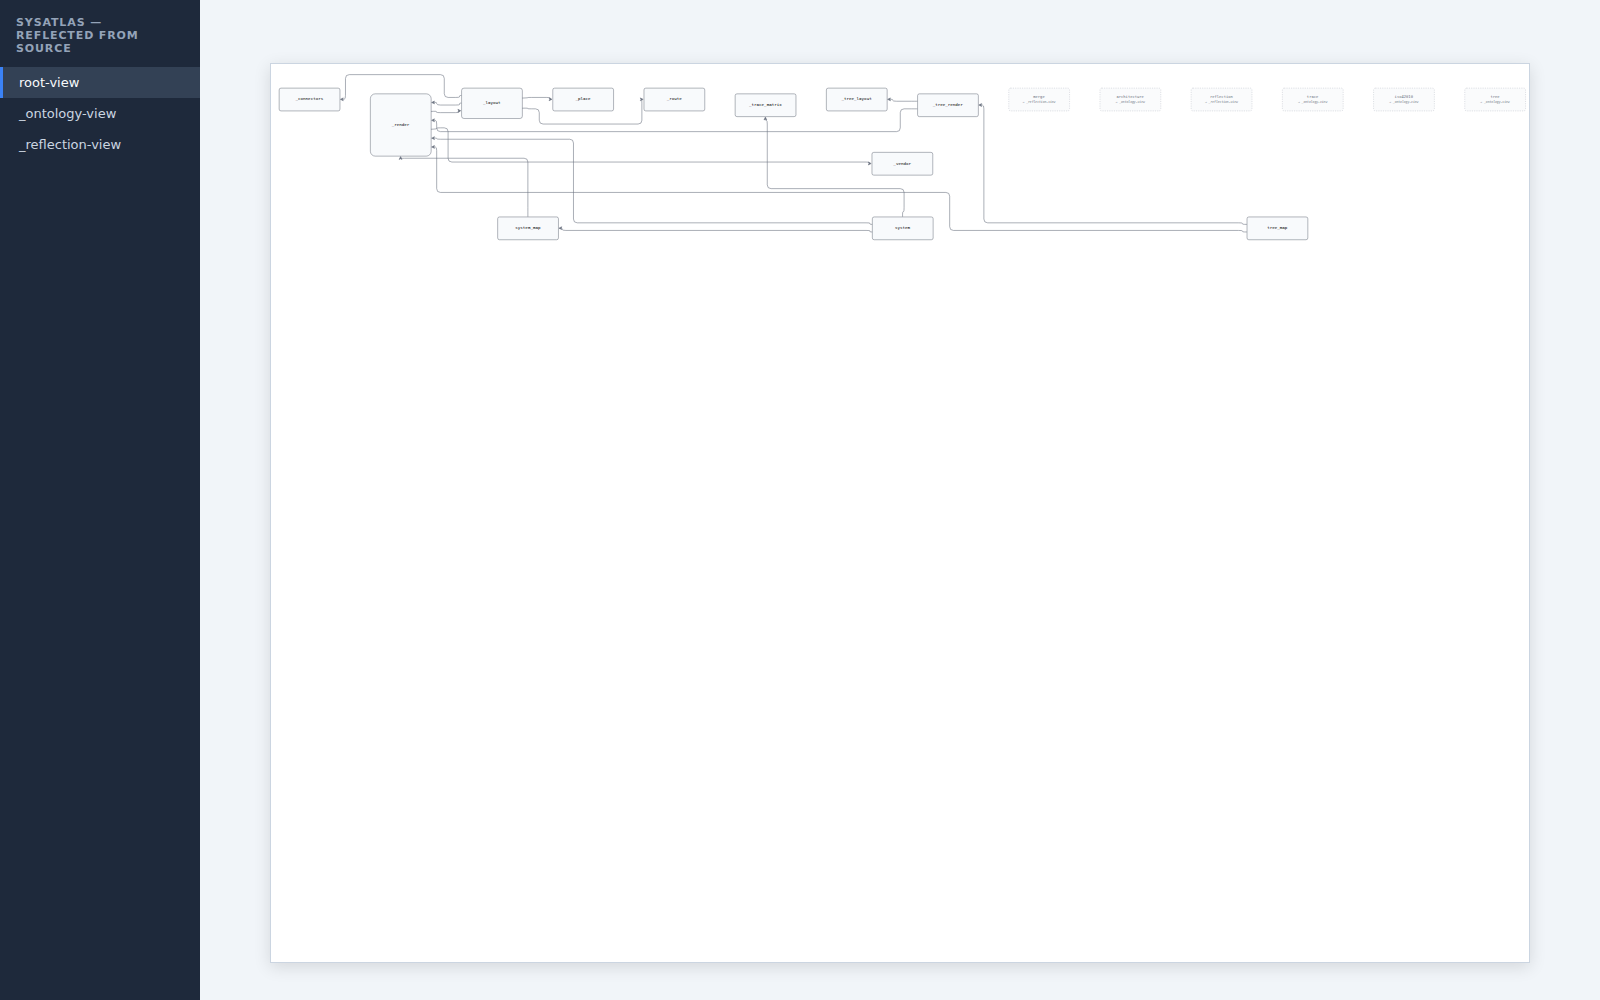
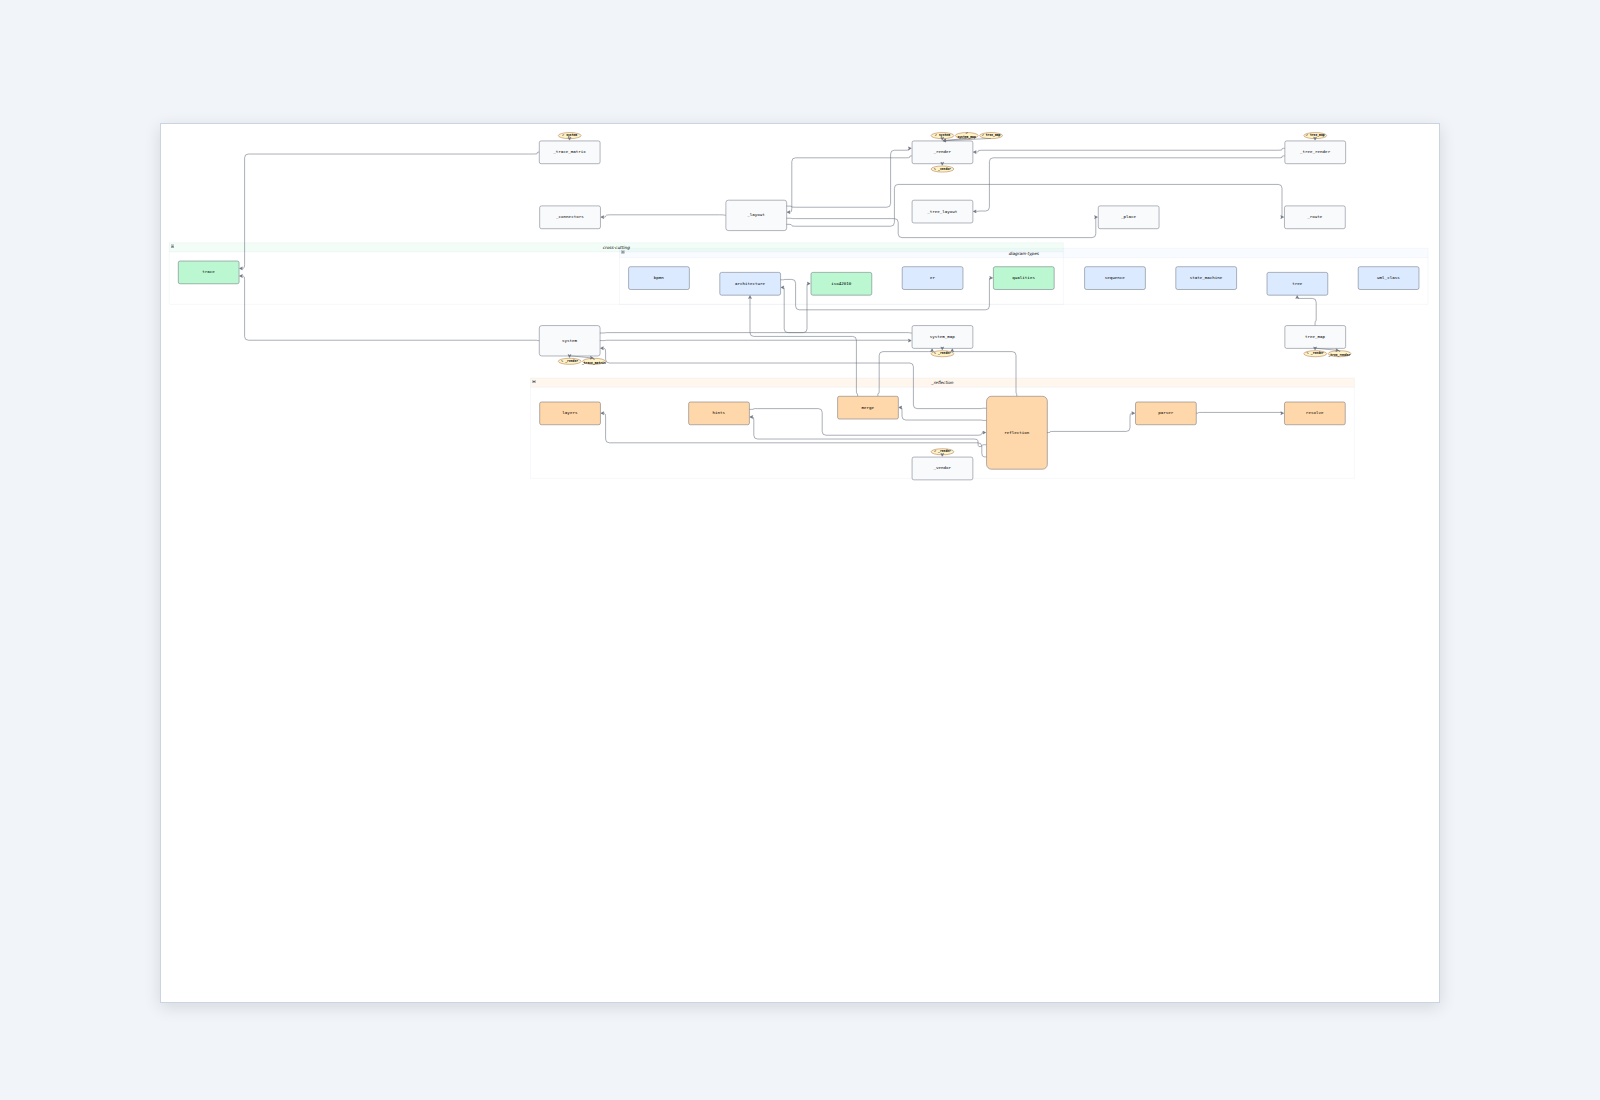
docs(reflection): add conceptual read/write-loop view + reorganise layers
The reflection demo used to be only the literal module-import graph,
which answers "what imports what" but not "what is sysatlas". Add a
hand-authored conceptual view (`loops.py`) showing the three parties
that meet around the ontology — User, LLM, Source code — with the
forward (builders) and backward (reflection) write paths drawn
symmetrically so the read/write loop is visible at a glance. The
Palantir Foundry ontology docs are the reference shape.

Also reorganise reflection layer hints so the literal view stops
collapsing into one row per sub-package. `_ontology/*` is now its own
layer (it is the integrating grammar every other module depends on),
not "data". Render / layout / builders / reflection get matching layer
names. Forced layer order top-to-bottom for the layered renderer.

diff --git a/docs/reflection/loops.html b/docs/reflection/loops.html
@@ -1,0 +1,71 @@
+<!DOCTYPE html>
+<html>
+<head>
+<meta charset="utf-8">
+<title>sysatlas — read/write loops around the ontology</title>
+<style>
+* { box-sizing: border-box; margin: 0; padding: 0; }
+html, body { height: 100%; background: #f1f5f9; font-family: sans-serif; }
+
+  body { display: flex; align-items: center; justify-content: center; }
+  #diagram {
+    border: 1px solid #cbd5e1;
+    box-shadow: 0 4px 16px rgba(0,0,0,0.12);
+    background: #ffffff;
+    overflow: hidden;
+    position: relative;
+  }
+
+</style>
+</head>
+<body>
+<div id="diagram"></div>
+<script src="https://viewer.diagrams.net/js/viewer-static.min.js"></script>
+<script>
+var xmlStr = "<mxGraphModel dx=\"1422\" dy=\"762\" grid=\"1\" gridSize=\"10\" guides=\"1\" tooltips=\"1\" connect=\"1\" arrows=\"1\" fold=\"1\" page=\"1\" pageScale=\"1\" pageWidth=\"1169\" pageHeight=\"827\" math=\"0\" shadow=\"0\"><root><mxCell id=\"0\" /><mxCell id=\"1\" parent=\"0\" /><mxCell id=\"trace-layer\" parent=\"0\" value=\"Traces\" visible=\"0\" /><mxCell id=\"2\" value=\"User\" style=\"rounded=1;whiteSpace=wrap;html=1;arcSize=8;fillColor=#f8fafc;strokeColor=#374151;fontFamily=monospace;fontSize=11;\" vertex=\"1\" parent=\"1\"><mxGeometry x=\"550\" y=\"95\" width=\"160\" height=\"60\" as=\"geometry\" /></mxCell><mxCell id=\"3\" value=\"LLM\" style=\"rounded=1;whiteSpace=wrap;html=1;arcSize=8;fillColor=#f8fafc;strokeColor=#374151;fontFamily=monospace;fontSize=11;\" vertex=\"1\" parent=\"1\"><mxGeometry x=\"790\" y=\"95\" width=\"160\" height=\"60\" as=\"geometry\" /></mxCell><mxCell id=\"4\" value=\"Source code\" style=\"rounded=1;whiteSpace=wrap;html=1;arcSize=8;fillColor=#f8fafc;strokeColor=#374151;fontFamily=monospace;fontSize=11;\" vertex=\"1\" parent=\"1\"><mxGeometry x=\"1030\" y=\"95\" width=\"160\" height=\"60\" as=\"geometry\" /></mxCell><mxCell id=\"5\" value=\"Builders\" style=\"rounded=1;whiteSpace=wrap;html=1;arcSize=8;fillColor=#f8fafc;strokeColor=#374151;fontFamily=monospace;fontSize=11;\" vertex=\"1\" parent=\"1\"><mxGeometry x=\"662\" y=\"225\" width=\"160\" height=\"60\" as=\"geometry\" /></mxCell><mxCell id=\"6\" value=\"Reflection\" style=\"rounded=1;whiteSpace=wrap;html=1;arcSize=8;fillColor=#f8fafc;strokeColor=#374151;fontFamily=monospace;fontSize=11;\" vertex=\"1\" parent=\"1\"><mxGeometry x=\"918\" y=\"240\" width=\"160\" height=\"60\" as=\"geometry\" /></mxCell><mxCell id=\"7\" value=\"Ontology\" style=\"rounded=1;whiteSpace=wrap;html=1;arcSize=8;fillColor=#f8fafc;strokeColor=#374151;fontFamily=monospace;fontSize=11;\" vertex=\"1\" parent=\"1\"><mxGeometry x=\"789\" y=\"385\" width=\"160\" height=\"60\" as=\"geometry\" /></mxCell><mxCell id=\"8\" value=\"Layout + Render\" style=\"rounded=1;whiteSpace=wrap;html=1;arcSize=8;fillColor=#f8fafc;strokeColor=#374151;fontFamily=monospace;fontSize=11;\" vertex=\"1\" parent=\"1\"><mxGeometry x=\"789\" y=\"560\" width=\"160\" height=\"60\" as=\"geometry\" /></mxCell><mxCell id=\"9\" value=\"Diagrams\" style=\"rounded=1;whiteSpace=wrap;html=1;arcSize=8;fillColor=#f8fafc;strokeColor=#374151;fontFamily=monospace;fontSize=11;\" vertex=\"1\" parent=\"1\"><mxGeometry x=\"790\" y=\"705\" width=\"160\" height=\"60\" as=\"geometry\" /></mxCell><mxCell id=\"10\" value=\"\" style=\"rounded=1;exitX=0.5;exitY=1.0;exitDx=0;exitDy=0;entryX=0.3333;entryY=0.0;entryDx=0;entryDy=0;strokeColor=#6b7280;strokeWidth=1.5;fontSize=10;\" edge=\"1\" source=\"2\" target=\"5\" parent=\"1\"><mxGeometry relative=\"1\" as=\"geometry\"><Array as=\"points\"><mxPoint x=\"630\" y=\"170\" /><mxPoint x=\"635\" y=\"170\" /><mxPoint x=\"635\" y=\"190\" /><mxPoint x=\"715\" y=\"190\" /><mxPoint x=\"715\" y=\"220\" /></Array></mxGeometry></mxCell><mxCell id=\"10010\" value=\"writes\" style=\"edgeLabel;html=1;align=center;verticalAlign=middle;resizable=0;points=[];fontSize=10;\" vertex=\"1\" connectable=\"0\" parent=\"10\"><mxGeometry x=\"-0.6774\" y=\"0\" relative=\"1\" as=\"geometry\"><mxPoint x=\"10\" y=\"0\" as=\"offset\" /></mxGeometry></mxCell><mxCell id=\"11\" value=\"\" style=\"rounded=1;exitX=0.5;exitY=1.0;exitDx=0;exitDy=0;entryX=0.6667;entryY=0.0;entryDx=0;entryDy=0;strokeColor=#6b7280;strokeWidth=1.5;fontSize=10;\" edge=\"1\" source=\"3\" target=\"5\" parent=\"1\"><mxGeometry relative=\"1\" as=\"geometry\"><Array as=\"points\"><mxPoint x=\"870\" y=\"170\" /><mxPoint x=\"875\" y=\"170\" /><mxPoint x=\"875\" y=\"220\" /><mxPoint x=\"768\" y=\"220\" /></Array></mxGeometry></mxCell><mxCell id=\"10011\" value=\"generates\" style=\"edgeLabel;html=1;align=center;verticalAlign=middle;resizable=0;points=[];fontSize=10;\" vertex=\"1\" connectable=\"0\" parent=\"11\"><mxGeometry x=\"-0.6429\" y=\"0\" relative=\"1\" as=\"geometry\"><mxPoint x=\"10\" y=\"0\" as=\"offset\" /></mxGeometry></mxCell><mxCell id=\"12\" value=\"\" style=\"rounded=1;exitX=0.5;exitY=1.0;exitDx=0;exitDy=0;entryX=0.3333;entryY=0.0;entryDx=0;entryDy=0;strokeColor=#6b7280;strokeWidth=1.5;fontSize=10;\" edge=\"1\" source=\"5\" target=\"7\" parent=\"1\"><mxGeometry relative=\"1\" as=\"geometry\"><Array as=\"points\"><mxPoint x=\"742\" y=\"300\" /><mxPoint x=\"745\" y=\"300\" /><mxPoint x=\"745\" y=\"380\" /><mxPoint x=\"842\" y=\"380\" /></Array></mxGeometry></mxCell><mxCell id=\"10012\" value=\"instantiates\" style=\"edgeLabel;html=1;align=center;verticalAlign=middle;resizable=0;points=[];fontSize=10;\" vertex=\"1\" connectable=\"0\" parent=\"12\"><mxGeometry x=\"-0.62\" y=\"0\" relative=\"1\" as=\"geometry\"><mxPoint x=\"10\" y=\"0\" as=\"offset\" /></mxGeometry></mxCell><mxCell id=\"13\" value=\"\" style=\"rounded=1;exitX=1.0;exitY=0.5;exitDx=0;exitDy=0;entryX=0.0;entryY=0.5;entryDx=0;entryDy=0;strokeColor=#6b7280;strokeWidth=1.5;fontSize=10;\" edge=\"1\" source=\"3\" target=\"4\" parent=\"1\"><mxGeometry relative=\"1\" as=\"geometry\"><Array as=\"points\"><mxPoint x=\"965\" y=\"125\" /><mxPoint x=\"965\" y=\"130\" /><mxPoint x=\"1025\" y=\"130\" /><mxPoint x=\"1025\" y=\"125\" /></Array></mxGeometry></mxCell><mxCell id=\"10013\" value=\"generates\" style=\"edgeLabel;html=1;align=center;verticalAlign=middle;resizable=0;points=[];fontSize=10;\" vertex=\"1\" connectable=\"0\" parent=\"13\"><mxGeometry x=\"-0.2222\" y=\"0\" relative=\"1\" as=\"geometry\"><mxPoint x=\"0\" y=\"-10\" as=\"offset\" /></mxGeometry></mxCell><mxCell id=\"14\" value=\"\" style=\"rounded=1;exitX=0.5;exitY=1.0;exitDx=0;exitDy=0;entryX=0.5;entryY=0.0;entryDx=0;entryDy=0;strokeColor=#6b7280;strokeWidth=1.5;fontSize=10;\" edge=\"1\" source=\"4\" target=\"6\" parent=\"1\"><mxGeometry relative=\"1\" as=\"geometry\"><Array as=\"points\"><mxPoint x=\"1110\" y=\"170\" /><mxPoint x=\"1115\" y=\"170\" /><mxPoint x=\"1115\" y=\"230\" /><mxPoint x=\"998\" y=\"230\" /></Array></mxGeometry></mxCell><mxCell id=\"10014\" value=\"parsed by\" style=\"edgeLabel;html=1;align=center;verticalAlign=middle;resizable=0;points=[];fontSize=10;\" vertex=\"1\" connectable=\"0\" parent=\"14\"><mxGeometry x=\"-0.6618\" y=\"0\" relative=\"1\" as=\"geometry\"><mxPoint x=\"10\" y=\"0\" as=\"offset\" /></mxGeometry></mxCell><mxCell id=\"15\" value=\"\" style=\"rounded=1;exitX=0.5;exitY=1.0;exitDx=0;exitDy=0;entryX=0.6667;entryY=0.0;entryDx=0;entryDy=0;strokeColor=#6b7280;strokeWidth=1.5;fontSize=10;\" edge=\"1\" source=\"6\" target=\"7\" parent=\"1\"><mxGeometry relative=\"1\" as=\"geometry\"><Array as=\"points\"><mxPoint x=\"998\" y=\"310\" /><mxPoint x=\"995\" y=\"310\" /><mxPoint x=\"995\" y=\"380\" /><mxPoint x=\"895\" y=\"380\" /></Array></mxGeometry></mxCell><mxCell id=\"10015\" value=\"instantiates\" style=\"edgeLabel;html=1;align=center;verticalAlign=middle;resizable=0;points=[];fontSize=10;\" vertex=\"1\" connectable=\"0\" parent=\"15\"><mxGeometry x=\"-0.6755\" y=\"0\" relative=\"1\" as=\"geometry\"><mxPoint x=\"10\" y=\"0\" as=\"offset\" /></mxGeometry></mxCell><mxCell id=\"16\" value=\"\" style=\"rounded=1;exitX=0.5;exitY=1.0;exitDx=0;exitDy=0;entryX=0.5;entryY=0.0;entryDx=0;entryDy=0;strokeColor=#6b7280;strokeWidth=1.5;fontSize=10;\" edge=\"1\" source=\"7\" target=\"8\" parent=\"1\"><mxGeometry relative=\"1\" as=\"geometry\"><Array as=\"points\"><mxPoint x=\"869\" y=\"460\" /><mxPoint x=\"865\" y=\"460\" /><mxPoint x=\"865\" y=\"550\" /><mxPoint x=\"869\" y=\"550\" /></Array></mxGeometry></mxCell><mxCell id=\"10016\" value=\"reads\" style=\"edgeLabel;html=1;align=center;verticalAlign=middle;resizable=0;points=[];fontSize=10;\" vertex=\"1\" connectable=\"0\" parent=\"16\"><mxGeometry x=\"-0.3252\" y=\"0\" relative=\"1\" as=\"geometry\"><mxPoint x=\"10\" y=\"0\" as=\"offset\" /></mxGeometry></mxCell><mxCell id=\"17\" value=\"\" style=\"rounded=1;exitX=0.5;exitY=1.0;exitDx=0;exitDy=0;entryX=0.5;entryY=0.0;entryDx=0;entryDy=0;strokeColor=#6b7280;strokeWidth=1.5;fontSize=10;\" edge=\"1\" source=\"8\" target=\"9\" parent=\"1\"><mxGeometry relative=\"1\" as=\"geometry\"><Array as=\"points\"><mxPoint x=\"869\" y=\"630\" /><mxPoint x=\"865\" y=\"630\" /><mxPoint x=\"865\" y=\"700\" /><mxPoint x=\"870\" y=\"700\" /></Array></mxGeometry></mxCell></root></mxGraphModel>";
+var config = {"nav": true, "resize": false, "toolbar": "zoom layers lightbox", "fit": true, "page": false};
+var container = document.getElementById('diagram');
+var viewerMode = "cdn";
+
+function setSize() {
+  container.style.width  = Math.round(window.innerWidth  * 0.8) + 'px';
+  container.style.height = Math.round(window.innerHeight * 0.8) + 'px';
+}
+
+setSize();
+
+if (typeof GraphViewer === 'undefined' || typeof mxUtils === 'undefined') {
+  
+  var msg = '';
+  if (viewerMode === 'cdn') {
+    msg = '<strong>draw.io viewer not loaded.</strong><br>' +
+          'Could not fetch <code>viewer-static.min.js</code> from the CDN.<br>' +
+          'Check your internet connection, or regenerate with ' +
+          "<code>viewer='local'</code> or <code>viewer='embed'</code>.";
+  } else if (viewerMode === 'local') {
+    msg = '<strong>draw.io viewer not loaded.</strong><br>' +
+          'Expected <code>viewer-static.min.js</code> next to this HTML file but did not find it.<br>' +
+          'Re-run save with the same path so the file is copied alongside.';
+  } else {
+    msg = '<strong>draw.io viewer not loaded.</strong><br>' +
+          'The embedded viewer JS appears to be corrupted.';
+  }
+  container.innerHTML =
+    '<div style="padding:32px;font-family:sans-serif;color:#7f1d1d;' +
+    'background:#fef2f2;border:1px solid #fecaca;border-radius:6px;' +
+    'max-width:560px;margin:auto;line-height:1.5;">' + msg + '</div>';
+
+} else {
+  var xmlDoc = mxUtils.parseXml(xmlStr);
+  var viewer = new GraphViewer(container, xmlDoc.documentElement, config);
+  setTimeout(function() {
+    if (viewer && viewer.graph) viewer.graph.fit();
+  }, 50);
+  window.addEventListener('resize', function() {
+    setSize();
+    if (viewer && viewer.graph) viewer.graph.fit();
+  });
+}
+</script>
+</body>
+</html>

diff --git a/docs/reflection/loops.py b/docs/reflection/loops.py
@@ -1,0 +1,55 @@
+"""Conceptual view: sysatlas as read/write loops around its ontology.
+
+Hand-authored (forward flow). Tells the story of what sysatlas *is*,
+not what its files import. The module-map.py demo answers the literal
+question; this one answers the conceptual one.
+
+Three parties feed the ontology:
+  - User: writes builder calls.
+  - LLM: writes source code, and writes builder calls.
+  - Source code: gets parsed back into ontology instances.
+
+The ontology hub sits in the middle. Layout + Render drain it into
+diagrams. The two write paths (forward — through builders, backward —
+through reflection) are deliberately symmetric: that symmetry *is* the
+read/write loop.
+
+Run: python docs/reflection/loops.py
+"""
+from pathlib import Path
+
+from sysatlas import SystemMap
+
+OUT = Path(__file__).with_suffix(".html")
+
+m = SystemMap(title="sysatlas — read/write loops around the ontology")
+
+m.add_component("User",            layer="inputs",   tech="human")
+m.add_component("LLM",             layer="inputs",   tech="coding assistant")
+m.add_component("Source code",     layer="inputs",   tech=".py files")
+
+m.add_component("Builders",        layer="write",    tech="SystemMap · System · TreeMap")
+m.add_component("Reflection",      layer="write",    tech="sysatlas.reflect()")
+
+m.add_component("Ontology",        layer="ontology", tech="sysatlas._ontology")
+
+m.add_component("Layout + Render", layer="read",     tech="_layout · _route · _render")
+
+m.add_component("Diagrams",        layer="output",   tech="HTML · PNG")
+
+# Forward write loop
+m.connect("User",        "Builders",   label="writes")
+m.connect("LLM",         "Builders",   label="generates")
+m.connect("Builders",    "Ontology",   label="instantiates")
+
+# Backward write loop
+m.connect("LLM",         "Source code", label="generates")
+m.connect("Source code", "Reflection",  label="parsed by")
+m.connect("Reflection",  "Ontology",    label="instantiates")
+
+# Read loop
+m.connect("Ontology",        "Layout + Render", label="reads")
+m.connect("Layout + Render", "Diagrams")
+
+m.save(str(OUT))
+print(f"[sysatlas] wrote {OUT}")

diff --git a/sysatlas/_reflection/reflection.py b/sysatlas/_reflection/reflection.py
@@ -84,7 +84,12 @@ class Reflection:
                 m.group(group)
                 groups_added.add(group)
 
-        for mod in kept:
+        _LAYER_TOP_DOWN = ["render", "layout", "edge", "services", "ontology",
+                           "builders", "data", "reflection", "infra", "external"]
+        def _layer_key(mod):
+            l = self._layer_for(mod.name)
+            return _LAYER_TOP_DOWN.index(l) if l in _LAYER_TOP_DOWN else len(_LAYER_TOP_DOWN)
+        for mod in sorted(kept, key=_layer_key):
             m.add_component(
                 self._display_name(mod.name),
                 group=self._group_for(mod.name),

diff --git a/docs/reflection/module-map.py b/docs/reflection/module-map.py
@@ -20,6 +20,6 @@ SOURCE = REPO / "sysatlas"
 OUT = Path(__file__).with_suffix(".html")
 
 r = sysatlas.reflect(SOURCE)
-s = r.to_system(title="sysatlas — reflected from source")
+s = r.to_system_map(title="sysatlas — reflected from source")
 s.save(str(OUT))
 print(f"[sysatlas] wrote {OUT}")

diff --git a/docs/reflection/README.md b/docs/reflection/README.md
@@ -12,7 +12,21 @@ can produce a usable diagram of its own source, the API works.
 
 | File | What it diagrams | How |
 |---|---|---|
-| [`module-map.py`](module-map.py) → [`module-map.html`](module-map.html) · [PNG](img/module-map.png) | sysatlas's internal module dependency graph. | `sysatlas.reflect()` (backward flow). Hints loaded from `sysatlas/sysatlas.json`. |
+| [`loops.py`](loops.py) → [`loops.html`](loops.html) · [PNG](img/loops.png) | sysatlas as read/write loops around its ontology. The *conceptual* view: what sysatlas is. | Hand-authored (forward flow). |
+| [`module-map.py`](module-map.py) → [`module-map.html`](module-map.html) · [PNG](img/module-map.png) | sysatlas's internal module dependency graph. The *literal* view: what its files import. | `sysatlas.reflect()` (backward flow). Hints loaded from `sysatlas/sysatlas.json`. |
+
+### The conceptual view
+
+![loops](img/loops.png)
+
+Three parties feed the ontology — User, LLM, and Source code. Two
+symmetric write paths reach it: **forward** through the builders
+(user/LLM writing code), **backward** through reflection (parsing
+existing code). The ontology hub is drained by layout + render into
+diagrams. That symmetry — forward / backward writing into the same
+shared grammar — *is* the read/write loop.
+
+### The literal view
 
 ![module map](img/module-map.png)
 
@@ -30,10 +44,13 @@ can produce a usable diagram of its own source, the API works.
 ### How to regenerate
 
 ```bash
-python docs/reflection/module-map.py
+python docs/reflection/loops.py        # conceptual view (hand-authored)
+python docs/reflection/module-map.py   # literal module dependency graph
 ```
 
-Re-run after any module add / remove / rename. The committed
+Re-run `module-map.py` after any module add / remove / rename. The
+`loops.py` view is stable and only needs regenerating when the
+conceptual story changes (new actors, new flow stages). The committed
 `module-map.html` is whitelisted in `.gitignore` so updates show up in
 diffs alongside the source change.
 